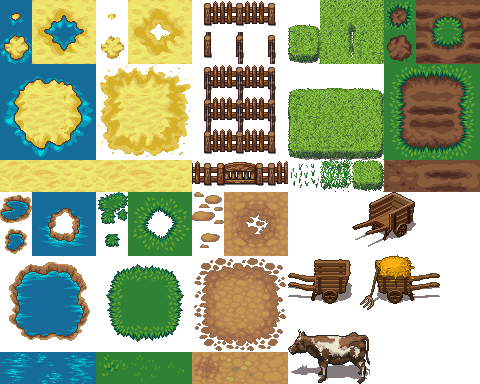
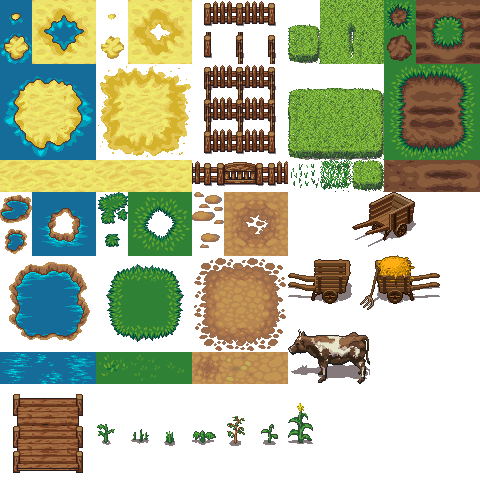
Novo cenario.

diff --git a/src/liberated-pixel-cup.js b/src/liberated-pixel-cup.js
@@ -25,18 +25,18 @@ goog.require('lime.animation.FadeTo');
 lpc.start = function(){
 	var director = new lime.Director(document.getElementById('game'), lpc.Config.SCREEN.width, lpc.Config.SCREEN.height),
 	    game = new lime.Scene(),
-		player = new lpc.Player().setPositionOnGrid((lpc.Config.GRID.width-1)/2, (lpc.Config.GRID.height-1)/2 -4).setOpacity(0),
+		player = new lpc.Player().setPositionOnGrid((lpc.Config.GRID.width-1)/2 -1, (lpc.Config.GRID.height-1)/2 -3).setOpacity(0),
 		levelAnimating = false,
 		moveDelay = .25;
 		moveDirection = '',
 		charDirection = '';
 	
-	var level = new lpc.levels.Level(game, 'assets/maps/test/farm.tmx');
+	var level = new lpc.levels.Level(game, 'assets/maps/farm.tmx');
 	var input = new lpc.inputs.KeyboardInput();
 	
 	level.getCharLayer().appendChild(player);
 	
-	//level.toggleGrid();
+	level.toggleGrid();
 	
 	var fog = new lpc.Fog().setQuality(.3)
 	var night = new lpc.Sprite().setSizeOnGrid(lpc.Config.GRID).setPositionOnGrid(0, 0).setFill('#000000').setOpacity(.5);
@@ -165,10 +165,10 @@ lpc.start = function(){
 				
 				
 				lime.scheduleManager.unschedule(walk, this);
-				
-				player.move(moveDirection);
 					
 				lime.scheduleManager.schedule(walk, this);
+				
+				//player.move(moveDirection);
 			}else if(e.input == ''){
 				lime.scheduleManager.unschedule(walk, this);
 				
@@ -232,8 +232,10 @@ lpc.start = function(){
             break;
 	   	}
 	   
-	   	if(typeof move != 'undefined')
+	   	if(typeof move != 'undefined' && move != null){
 	   		player.setPosition(player.getPosition().x + (move.x * (dt/10)), player.getPosition().y + (move.y * (dt/10)));
+	   		player.move(moveDirection);
+	   	}
     }
 }
 

diff --git a/src/invaders-control.js b/src/invaders-control.js
@@ -28,6 +28,8 @@ lpc.InvadersControl = function(level, player){
 			createInvader();
 		}
 		
+		//moveInvaders();
+		
 		lime.scheduleManager.callAfter(function(){
 			manager();
 		}, self, interval)
@@ -55,20 +57,16 @@ lpc.InvadersControl = function(level, player){
 		//}while(!level.tileIsPassable(position));
 		
 		if(position.x == 0){
-			//position.x--;
-			anim = new lime.animation.MoveBy(lpc.Config.GRID_CELL, 0);
+			position.x--;
 			direction = 'right';
 		}else if(position.x == lpc.Config.GRID.width - 1){
-			//position.x++;
-			anim = new lime.animation.MoveBy(-lpc.Config.GRID_CELL, 0);
+			position.x++;
 			direction = 'left';
 		}else if(position.y == 0){
-			//position.y--;
-			anim = new lime.animation.MoveBy(0, 2 * lpc.Config.GRID_CELL);
+			position.y--;
 			direction = 'down';
 		}else if(position.y == lpc.Config.GRID.height - 1){
-			//position.y += 2;
-			anim = new lime.animation.MoveBy(0, -2 * lpc.Config.GRID_CELL);
+			position.y += 2;
 			direction = 'up';
 		}
 		
@@ -77,19 +75,11 @@ lpc.InvadersControl = function(level, player){
 		var invader = new lpc.Invader();
 		invader.setPositionOnGrid(position).turn(direction);
 		level.getCharLayer().appendChild(invader);
-		//invaders.push(invader);
+		invaders.push(invader);
 		invadersTiles[position.x + 'x' + position.y] = true; // ex: invadersTiles['7x9']
 	}
 	
-	function tileIsOccupied(position){
-		for(var i in invaders){
-			if( invaders[i].getPositionOnGrid().x == position.x &&
-				invaders[i].getPositionOnGrid().y == position.y){
-				
-				return true;
-			}
-		}
+	function moveInvaders(){
 		
-		return false;
 	}
 }

diff --git a/src/player.js b/src/player.js
@@ -16,7 +16,7 @@ lpc.Player = function(){
 	
 	this.setAnchorPoint(.25, .5).setSizeOnGrid(2, 2).setFill(this.sheet.getFrame('farmer0018.png'));
 	
-	this.hitArea = new lpc.Sprite().setSize(26, 26).setPosition(3,3);//.setStroke(1, '#eeeeee');
+	this.hitArea = new lpc.Sprite().setSize(26, 26).setPosition(3,3).setStroke(1, '#eeeeee');
 	this.appendChild(this.hitArea);
 	
 	this.up = new Array( 
